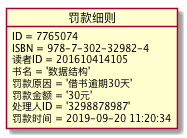
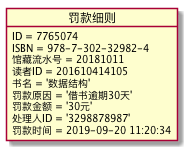
test4

diff --git a/test5/README.md b/test5/README.md
@@ -1,0 +1,105 @@
+## 实验五（test5）：图书管理系统数据库设计与界面设计
+|学号|班级|姓名|
+|:---------------:|:------------:|:------------:|
+|201610414105|软件16-1|兰迪|
+
+### 1.1 管理员信息（Manager）表(包括超级管理员和图书管理员)：
+|项目|字段名|类型与宽度|主键、外键|是否允许为空值|约束|说明|
+|:------:|:-------:|:-------:|:-------:|:-------:|:-------:|:-------:|
+|ID|managerId|int(12)|主键|×|||
+|姓名|managerName|varchar(20)||×|||
+|性别|gender|varchar(20)||√|||
+|密码|password|varchar(20)||×|||
+|角色|role|bit||×||1:超级管理员，0:图书管理员，2:读者|
+|邮箱|mail|varchar(30)||×|||
+|照片|photo|varbinary(MAX)||√|||
+|电话|tel|int(11)||×||联系电话|
+|所属部门|department|varchar(30)||×|||
+
+### 1.2 读者信息（Reader）表：
+|项目|字段名|类型与宽度|主键、外键|是否允许为空值|约束|说明|
+|:------:|:-------:|:-------:|:-------:|:-------:|:-------:|:-------:|
+|ID|readerId|int(12)|主键|×|||
+|姓名|readerName|varchar(20)||×|||
+|性别|gender|varchar(20)||×|||
+|密码|password|varchar(20)||×|||
+|角色|role|bit||×||1:超级管理员，0:图书管理员，2:读者|
+|邮箱|mail|varchar(30)||×|||
+|照片|photo|varbinary(MAX)||√|||
+|电话|tel|int(11)||×||联系电话|
+|出生日期|born|int(8)||×|||
+|专业|major|varchar(20)||×|||
+|所属学院|institute|varchar(20)||×|||
+|借书数量|num|int(10)||×||初始默认为0|
+
+### 1.3 图书信息(Book)表：
+|项目|字段名|类型与宽度|主键、外键|是否允许为空值|约束|说明|
+|:------:|:-------:|:-------:|:-------:|:-------:|:-------:|:-------:|
+|ID|bookId|int(12)|主键|×|||
+|书名|bookName|varchar(20)||×|||
+|ISBN|ISBN|varchar(20)||×|||
+|作者|author|varchar(20)||×|||
+|出版社|publish|varchar(20)||×|||
+|价格|price|varchar(30)||×|||
+|内容简介|summary|varchar(50)||√|||
+|照片|photo|varbinary(MAX)||√|||
+
+### 1.4 馆藏资源品种信息(Resource)表：
+|项目|字段名|类型与宽度|主键、外键|是否允许为空值|约束|说明|
+|:------:|:-------:|:-------:|:-------:|:-------:|:-------:|:-------:|
+|馆藏流水号|serId|int(20)|主键|×|||
+|预定记录号|reserveId|int(20)|外键|√||为空说明还没有预定|
+|ISBN|ISBN|int(20)||×|||
+|作者|author|varchar(20)||×|||
+|出版社|publish|varchar(20)||×|||
+|价格|price|varchar(30)||×|||
+|简介|summary|varchar(50)||√|||
+|馆藏数量|sum|int(10)||×||初始默认值为0|
+|可借数量|borrNum|int(10)||×||初始默认值为0|
+|借出总次数|borSum|int(15)||×||初始默认值为0|
+|出版日期|pubTime|int(8)||×|||
+|状态|state|varchar(20)||×|||
+
+
+### 1.5 借书记录信息(borrow)表：
+|项目|字段名|类型与宽度|主键、外键|是否允许为空值|约束|说明|
+|:------:|:-------:|:-------:|:-------:|:-------:|:-------:|:-------:|
+|ID|borrowId|int(20)|主键|×|||
+|ISBN|ISBN|int(20)||×|||
+|馆藏流水号|serId|int(40)|外键|×||参照馆藏资源信息表|
+|读者ID|readerId|int(20)|外键|×||参照读者信息表|
+|书名|bookName|varchar(20)||×|||
+|借书日期|borrowTime|datetime||×|||
+|归还日期|returnDate|datetime||√||为空说明还没有归还|
+|借书时长|borrowLenth|int(10)||×|||
+|是否归还|isReturn|varchar(5)||×|||
+|是否逾期|isOverdue|varchar(5)||×|||
+
+### 1.6 预定记录信息(order)表：
+|项目|字段名|类型与宽度|主键、外键|是否允许为空值|约束|说明|
+|:------:|:-------:|:-------:|:-------:|:-------:|:-------:|:-------:|
+|ID|orderId|int(20)|主键|×|||
+|ISBN|ISBN|int(20)||×|||
+|预定记录号|reserveId|int(20)|外键|×|||
+|读者ID|readerId|int(20)|外键|×||参照读者信息表|
+|书名|publish|varchar(20)||×|||
+|预定日期|orderTime|datetime||×|||
+|取书日期|takeTime|datetime||√|||
+|是否超期未取|isOverDue|varchar(10)||×|||
+|是否取消预定|isCancelOrder|varchar(10)||×|||
+
+### 1.6 预定记录信息(order)表：
+|项目|字段名|类型与宽度|主键、外键|是否允许为空值|约束|说明|
+|:------:|:-------:|:-------:|:-------:|:-------:|:-------:|:-------:|
+|ID|orderId|int(20)|主键|×|||
+|ISBN|ISBN|int(20)||×|||
+|预定记录号|reserveId|int(20)|外键|×|||
+|读者ID|readerId|int(20)|外键|×||参照读者信息表|
+|书名|publish|varchar(20)||×|||
+|预定日期|orderTime|datetime||×|||
+|取书日期|takeTime|datetime||√|||
+|是否超期未取|isOverDue|varchar(10)||×|||
+|是否取消预定|isCancelOrder|varchar(10)||×|||
+
+
+

diff --git a/test3/class.md b/test3/class.md
@@ -9,7 +9,6 @@ class 用户{
     性别
     密码
     角色
-    电话
     邮箱
     照片
     电话
@@ -56,6 +55,7 @@ class 馆藏资源品种{
     作者
     出版社
     出版日期
+    预定记录号
     --get 和 set--
     ...
     --
@@ -116,6 +116,7 @@ class 预定记录{
 class 逾期记录{
     ID
     ISBN
+    馆藏流水号
     读者ID
     书名
     逾期日期
@@ -131,6 +132,7 @@ class 逾期记录{
 class 罚款细则{
     ID
     读者ID
+    馆藏流水号
     书名
     罚款原因
     罚款金额

diff --git a/test3/object8.md b/test3/object8.md
@@ -3,13 +3,13 @@
 object 逾期记录{
     ID = 77656754
     ISBN = 978-7-302-32982-4
+    馆藏流水号 = 20181011
     读者ID = 201610414105
     书名 = '数据结构'
     逾期日期 = 2017-08-19 11:22:11
     归还日期 = 2017-09-19 13:24:31 
     逾期时长 = '30天'
     备注 = '无'
-
 
  }
 

diff --git a/test3/object9.md b/test3/object9.md
@@ -3,6 +3,7 @@
 object 罚款细则{
     ID = 7765074
     ISBN = 978-7-302-32982-4
+    馆藏流水号 = 20181011
     读者ID = 201610414105
     书名 = '数据结构'
     罚款原因 = '借书逾期30天'

diff --git a/test3/object4.md b/test3/object4.md
@@ -11,6 +11,7 @@ object 馆藏资源品种{
     作者 = '严蔚敏'
     出版社 = '清华大学出版社'
     出版日期 = 2001-02-03 13:23:23
+    预定记录号 = 20170729
 }
 
 @enduml
